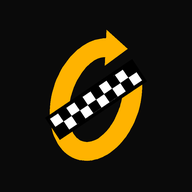
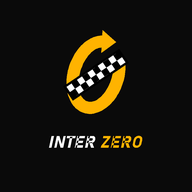
Web 2.3.2 / app 2.3.2: アイコンに INTER ZERO の文字（Bahnschrift太字の斜体・INTERは白、ZEROは琥珀）

Changed region(s): [[0.25, 0.1562, 0.75, 0.8438]]

diff --git a/index.html b/index.html
@@ -363,7 +363,7 @@ td{padding:6px 4px;border-bottom:1px solid var(--line)}
     </div>
     <div class="card">
       <div class="note" id="gpsInfo"></div>
-      <div class="note" id="verNote">INTER ZERO Web版 2.3.1</div>
+      <div class="note" id="verNote">INTER ZERO Web版 2.3.2</div>
       <div class="note">音声：VOICEVOX:四国めたん</div>
     </div>
   </section>
@@ -1345,7 +1345,7 @@ document.addEventListener('pointerup', () => {
   if (!$('start').classList.contains('off') || !orientWrong()) return;
   if (NATIVE) lockOrient(); else if (matchMedia('(pointer:coarse)').matches) goFull(); else lockOrient();
 }, true);
-if (NATIVE) { try { $('verNote').textContent = 'INTER ZERO アプリ版 ' + NATIVE.version() + '（画面 Web版 2.3.1）'; } catch (e) {} }
+if (NATIVE) { try { $('verNote').textContent = 'INTER ZERO アプリ版 ' + NATIVE.version() + '（画面 Web版 2.3.2）'; } catch (e) {} }
 // 起動ロゴ：タップで飛ばせる・終わったら消す
 (() => { const sp = $('splash'); const end = () => sp.remove();
   sp.addEventListener('pointerdown', end); setTimeout(end, 2500); })();

diff --git a/sw.js b/sw.js
@@ -1,5 +1,5 @@
 // 山の中で電波が無くても開けるように、全部キャッシュする（更新時は VERSION を上げる）
-const VERSION = 'rallycom-web-2.3.1';
+const VERSION = 'rallycom-web-2.3.2';
 const FILES = ['./', './index.html', './manifest.webmanifest', './icon-192.png', './icon-512.png', './seraphix-logo.png',
   './voice/phrases.json', './voice/s30.mp3', './voice/s15.mp3', './voice/s10.mp3', './voice/zone.mp3', './voice/target.mp3', './voice/ssfin.mp3', './voice/gps.mp3'];
 self.addEventListener('install', e => { e.waitUntil(caches.open(VERSION).then(c => c.addAll(FILES))); self.skipWaiting(); });
